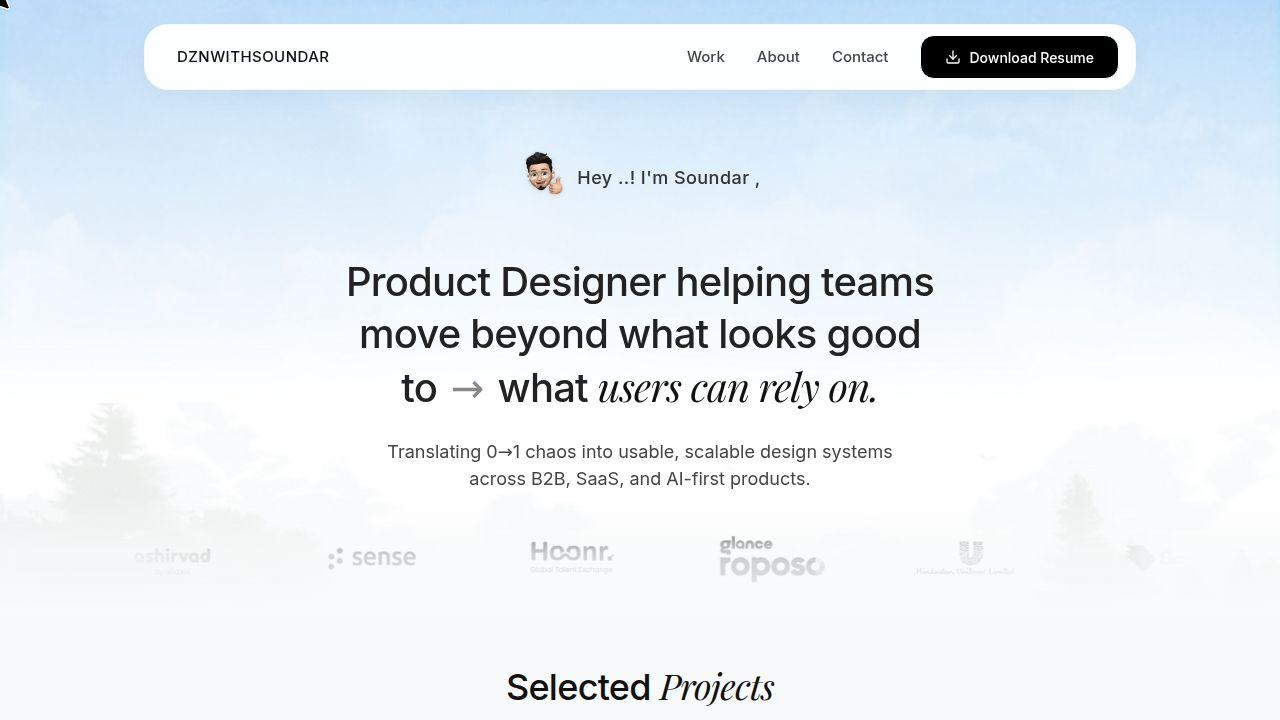
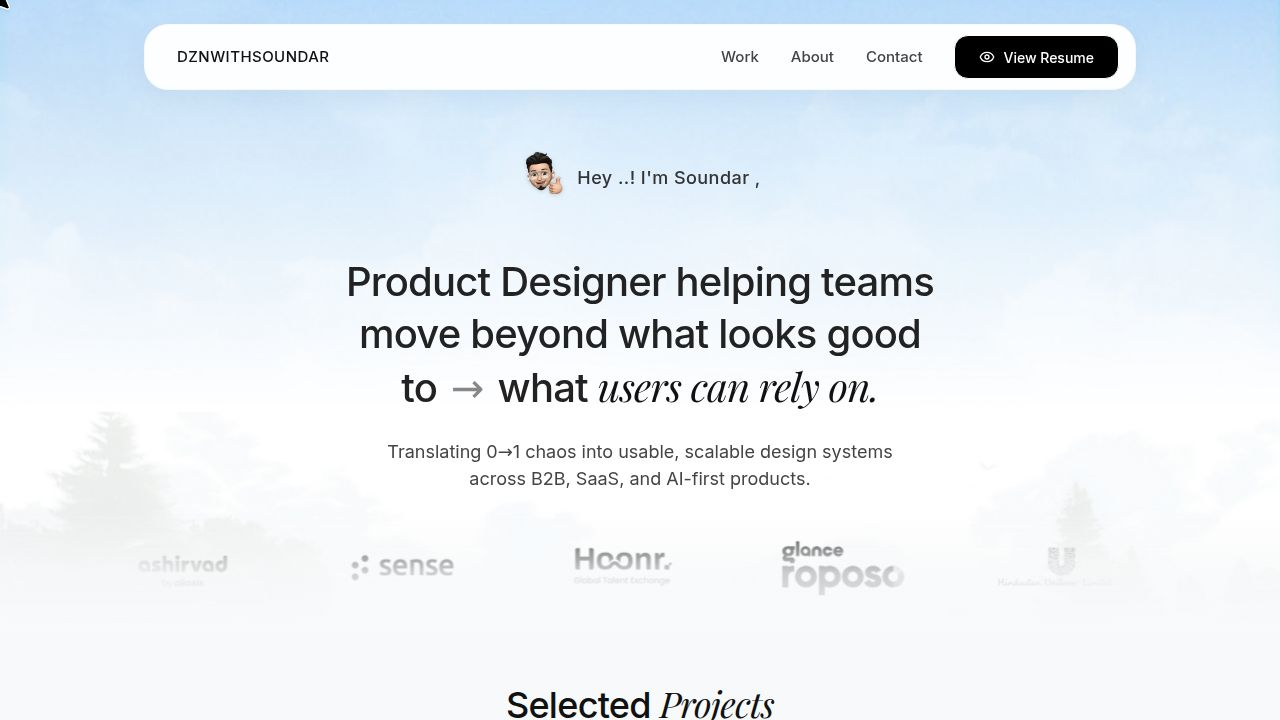
Add a preview for viewing the resume within the application interface
Implement a modal overlay for PDF resume viewing using `createPortal` and disable background scrolling when the modal is active.

Replit-Commit-Author: Agent
Replit-Commit-Session-Id: 24f6746b-ac5b-433d-a8cb-b1dc6210f754
Replit-Commit-Checkpoint-Type: full_checkpoint
Replit-Commit-Event-Id: 8fd8c0cd-0d9b-408e-a44f-d9d7137029a2
Replit-Commit-Screenshot-Url: https://storage.googleapis.com/screenshot-production-us-central1/dd43cf11-16c6-436e-b214-50ef9fe1ccd2/24f6746b-ac5b-433d-a8cb-b1dc6210f754/nrJMMIy
Replit-Helium-Checkpoint-Created: true

diff --git a/client/src/components/NavBar.tsx b/client/src/components/NavBar.tsx
@@ -1,9 +1,23 @@
 import { Button } from "@/components/ui/button";
 import { Download, Menu, X, Eye } from "lucide-react";
-import { useState } from "react";
+import { useState, useEffect } from "react";
+import { createPortal } from "react-dom";
 
 export function NavBar() {
   const [isMobileMenuOpen, setIsMobileMenuOpen] = useState(false);
+  const [isResumeOpen, setIsResumeOpen] = useState(false);
+
+  // Prevent background scrolling when resume modal is open
+  useEffect(() => {
+    if (isResumeOpen) {
+      document.body.style.overflow = "hidden";
+    } else {
+      document.body.style.overflow = "unset";
+    }
+    return () => {
+      document.body.style.overflow = "unset";
+    };
+  }, [isResumeOpen]);
 
   const handleNavClick = (e: React.MouseEvent<HTMLAnchorElement>, targetId: string) => {
     setIsMobileMenuOpen(false); // Close mobile menu when a link is clicked
@@ -23,6 +37,40 @@ export function NavBar() {
     }
   };
 
+  const ResumeModal = () => {
+    if (!isResumeOpen) return null;
+    
+    return createPortal(
+      <div 
+        className="fixed inset-0 z-[100] bg-black/60 backdrop-blur-sm flex items-center justify-center p-4 md:p-8" 
+        onClick={() => setIsResumeOpen(false)}
+      >
+        <div 
+          className="bg-white rounded-2xl w-full max-w-5xl h-full max-h-[90vh] flex flex-col shadow-2xl overflow-hidden animate-in fade-in zoom-in-95 duration-200"
+          onClick={e => e.stopPropagation()}
+        >
+          <div className="flex items-center justify-between p-4 border-b border-gray-100 shrink-0">
+            <h3 className="font-medium font-sans text-lg">Resume Preview</h3>
+            <button 
+              onClick={() => setIsResumeOpen(false)} 
+              className="p-2 hover:bg-gray-100 rounded-full transition-colors"
+            >
+              <X className="w-5 h-5" />
+            </button>
+          </div>
+          <div className="flex-1 w-full bg-gray-50 h-full overflow-hidden">
+            <iframe 
+              src="/Soundar_resume2026.pdf" 
+              className="w-full h-full border-none"
+              title="Resume Preview"
+            />
+          </div>
+        </div>
+      </div>,
+      document.body
+    );
+  };
+
   return (
     <div className="fixed top-6 left-1/2 -translate-x-1/2 w-full max-w-5xl px-4 z-50">
       <nav className="bg-white/95 backdrop-blur-md flex items-center justify-between px-3 py-2.5 rounded-3xl shadow-[0_8px_30px_rgb(0,0,0,0.04)] border border-gray-100/50">
@@ -39,7 +87,10 @@ export function NavBar() {
           </div>
           
           {/* Desktop Resume Button */}
-          <Button className="hidden md:flex rounded-[14px] px-6 h-11 bg-black text-white hover:bg-[#222] font-medium text-[14px] items-center gap-2 transition-all">
+          <Button 
+            onClick={() => setIsResumeOpen(true)}
+            className="hidden md:flex rounded-[14px] px-6 h-11 bg-black text-white hover:bg-[#222] font-medium text-[14px] items-center gap-2 transition-all"
+          >
             <Eye className="w-4 h-4" />
             View Resume
           </Button>
@@ -63,13 +114,21 @@ export function NavBar() {
             <a href="/#contact" onClick={(e) => handleNavClick(e, 'contact')} className="hover:text-black transition-colors px-4 py-2 hover:bg-gray-50 rounded-xl">Contact</a>
           </div>
           <div className="pt-2 border-t border-gray-100">
-            <Button className="w-full rounded-[14px] h-12 bg-black text-white hover:bg-[#222] font-medium text-[15px] flex items-center justify-center gap-2 transition-all">
+            <Button 
+              onClick={() => {
+                setIsResumeOpen(true);
+                setIsMobileMenuOpen(false);
+              }}
+              className="w-full rounded-[14px] h-12 bg-black text-white hover:bg-[#222] font-medium text-[15px] flex items-center justify-center gap-2 transition-all"
+            >
               <Eye className="w-4 h-4" />
               View Resume
             </Button>
           </div>
         </div>
       )}
+      
+      <ResumeModal />
     </div>
   );
 }
